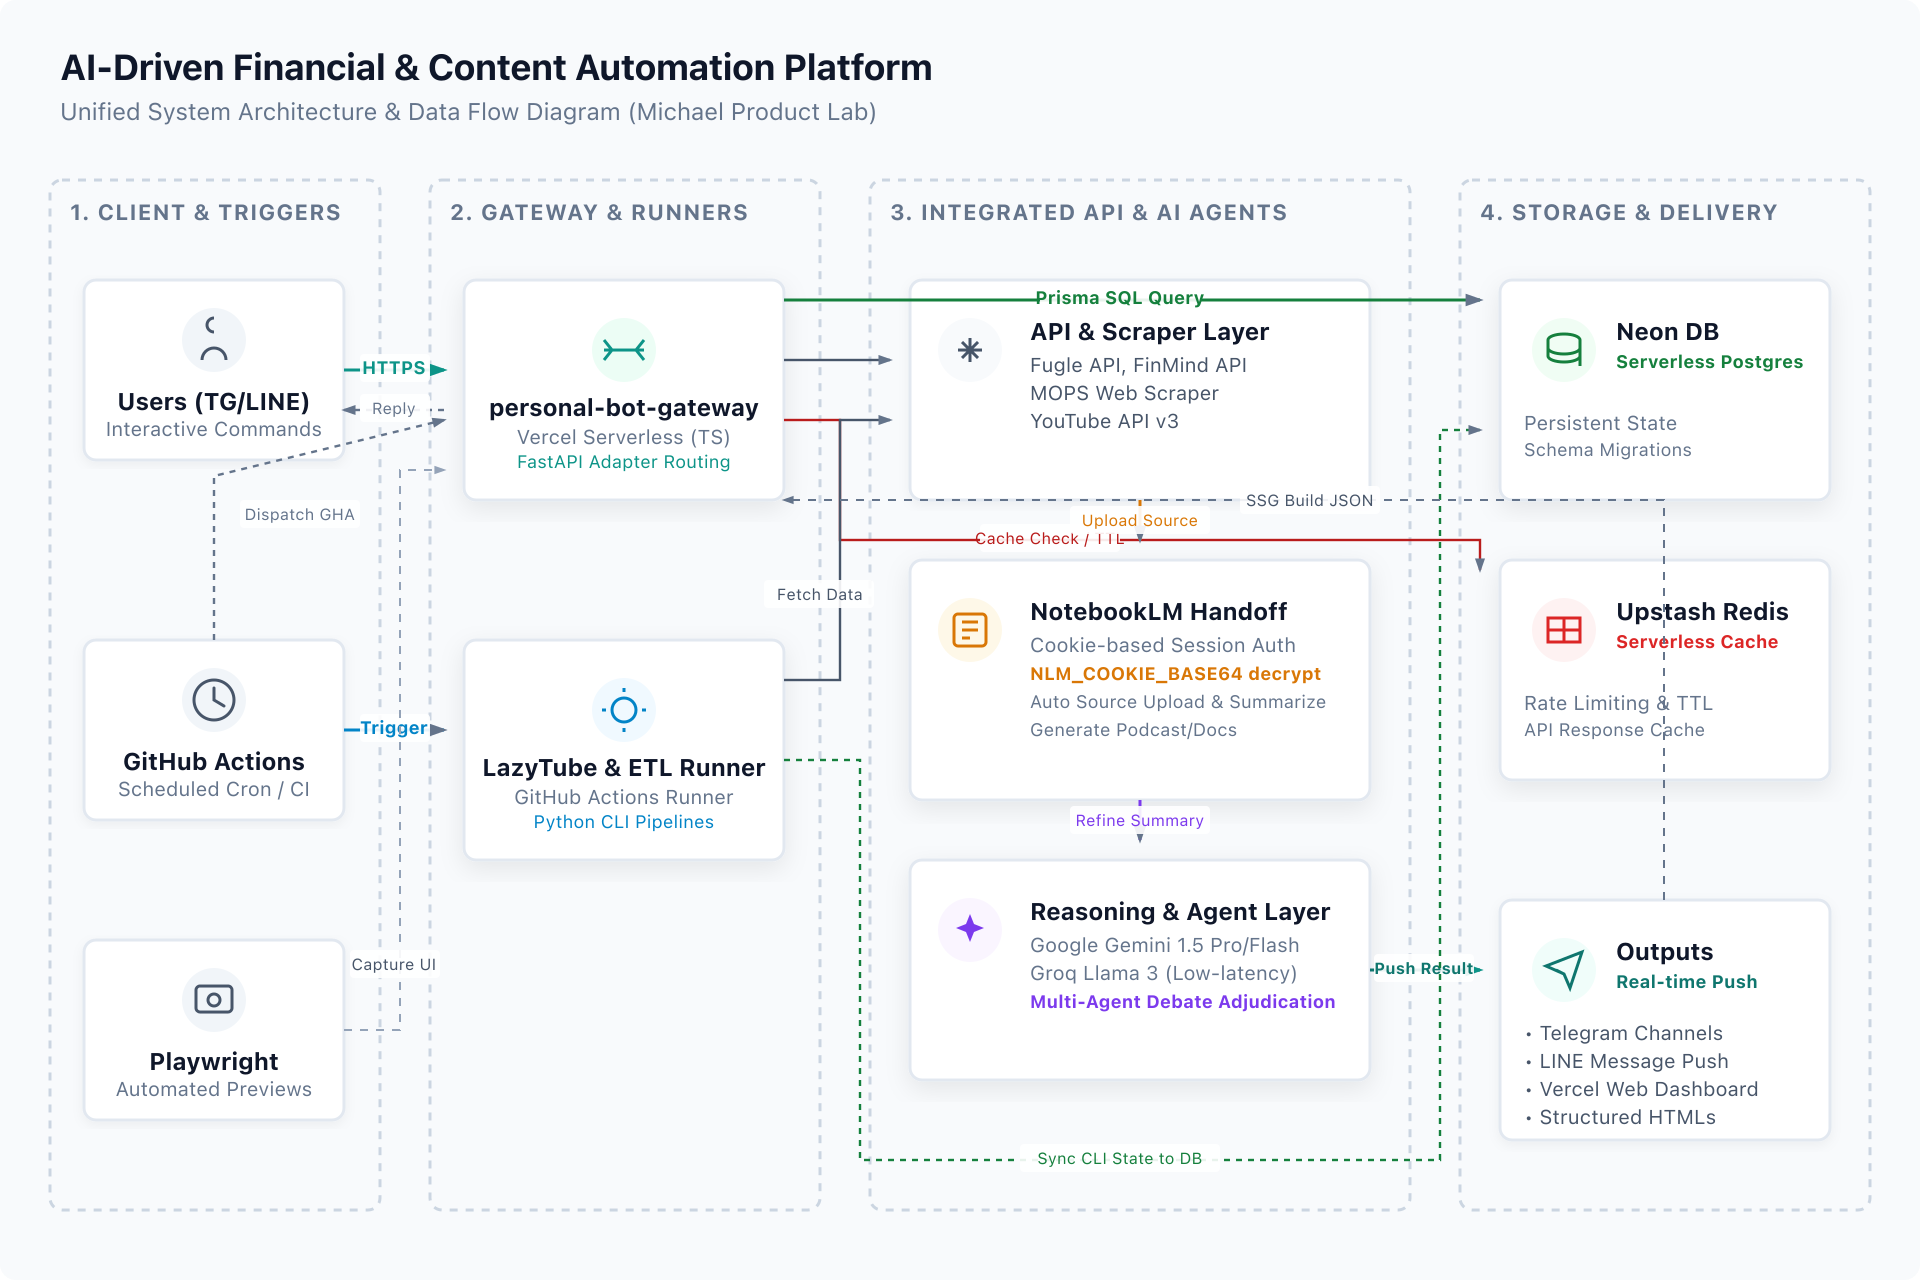
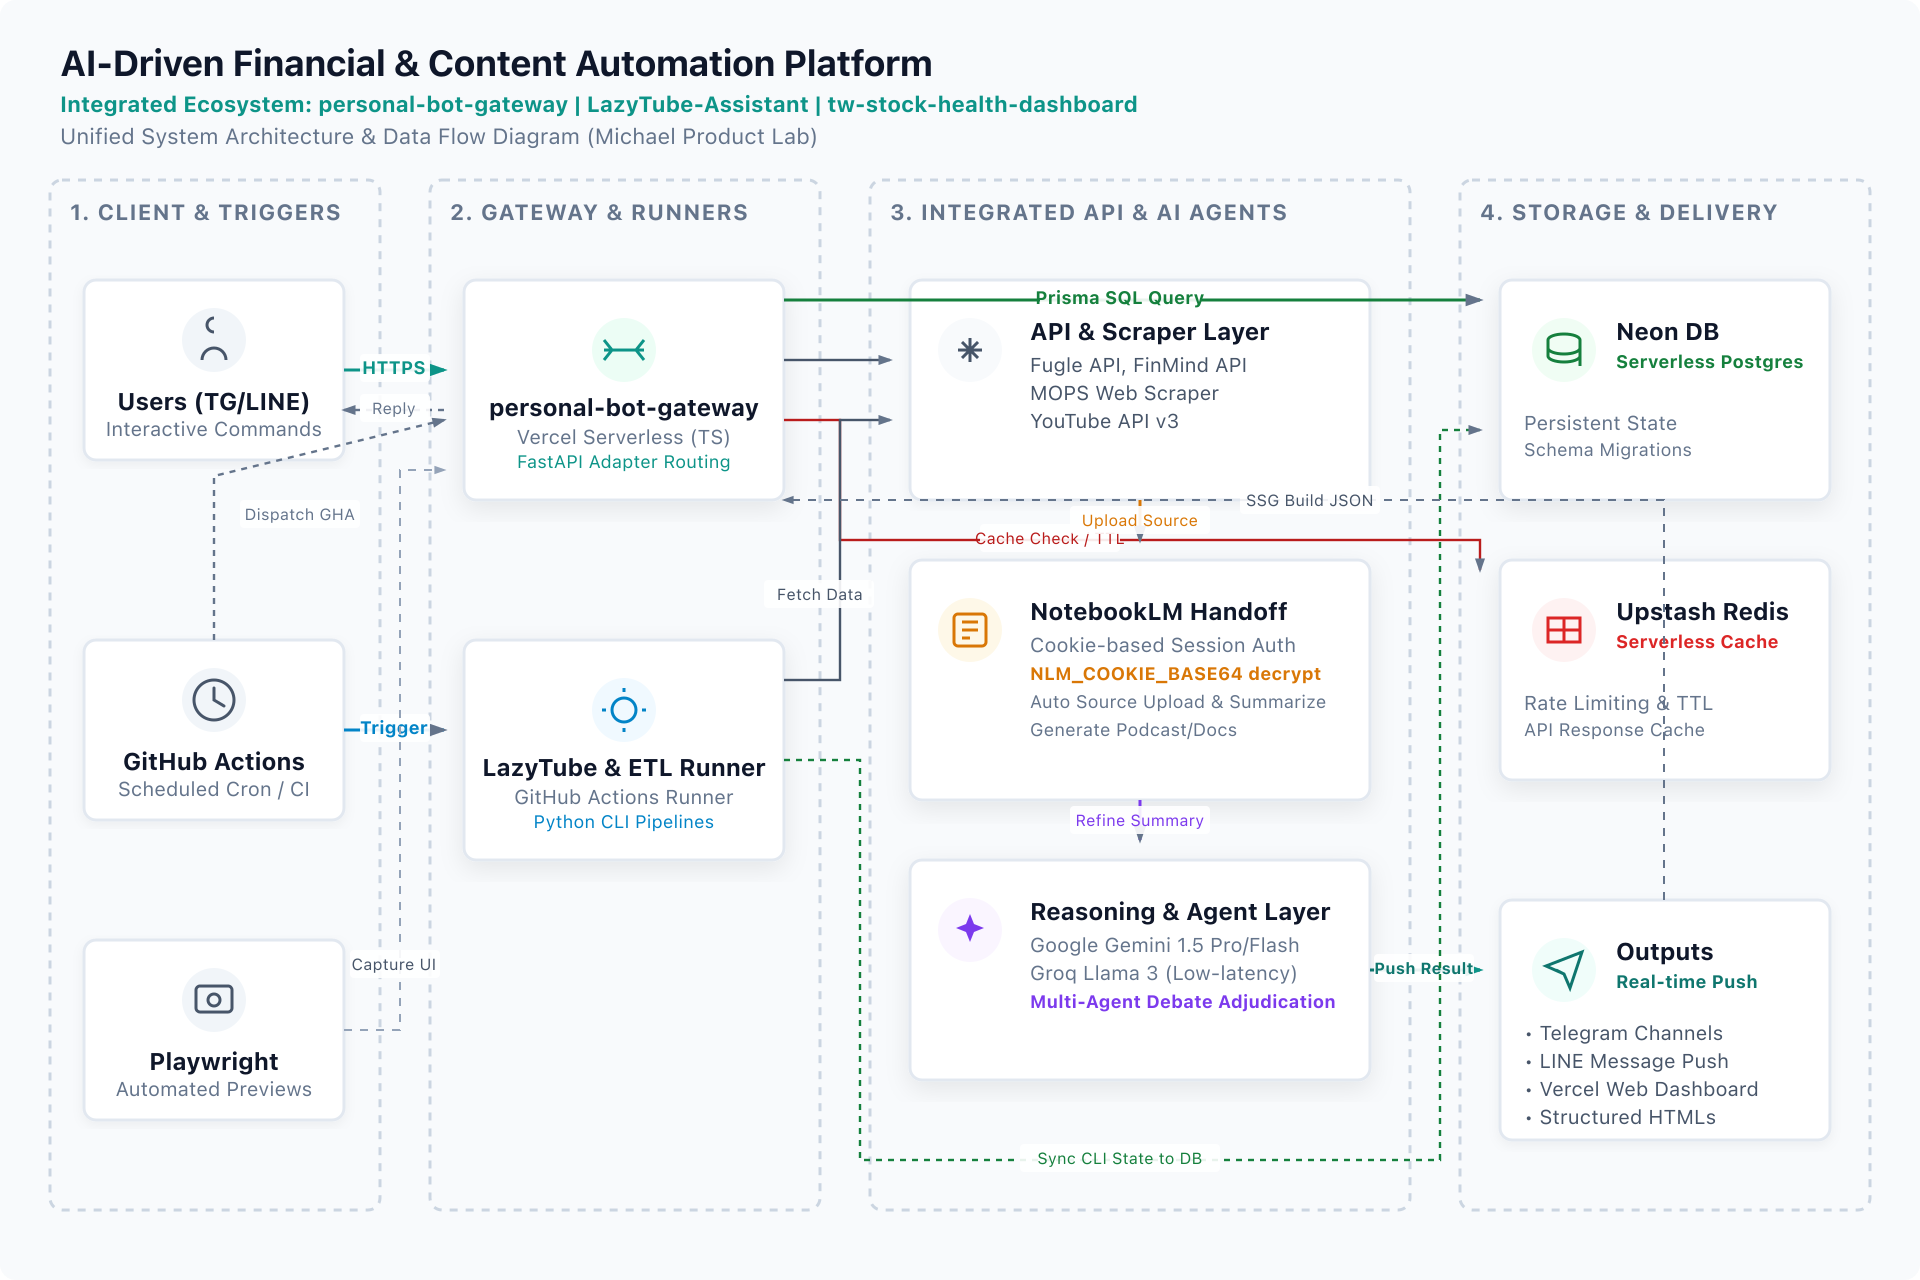
docs: restructure readmes, add tech matrix table, enrich price-atlas details and update architecture diagram text

Changed region(s): [[0.0312, 0.0312, 0.5938, 0.125]]

diff --git a/README.md b/README.md
@@ -16,6 +16,8 @@ The platform integrates a bot gateway, ETL schedulers, caching layers, and datab
 
 ![AI-Driven Financial & Content Automation Platform](./public/architecture.png)
 
+*Note: This architecture diagram illustrates the integrated ecosystem formed by three independent repositories in this portfolio: `personal-bot-gateway`, `LazyTube-Assistant`, and `tw-stock-health-dashboard`.*
+
 ### Core technical implementation:
 - **Asynchronous tasks & scheduling**: **GitHub Actions** runs cron jobs to trigger Python ETL scripts for YouTube and Fugle/FinMind API scraping. The pipeline decrypts `NLM_COOKIE_BASE64` to restore cookie sessions for uploading media to **NotebookLM**.
 - **Caching & rate limits**: **Upstash Redis** buffers webhook spikes and enforces TTL rules and rate limiting to avoid exceeding third-party API quotas.
@@ -24,128 +26,62 @@ The platform integrates a bot gateway, ETL schedulers, caching layers, and datab
 
 ---
 
-## The Problems This Product Lab Solves
+## Featured Product Spotlights
 
-Writing code is more than stacking tech. Without real-world utility, technical choices matter little. Resumes often list languages and frameworks, but lack product context.
+Four core projects selected to showcase key backgrounds and live execution views:
 
-I created this project to address these gaps:
-- **Translates code into business value**: Every listed project starts with the problem it solves, not just a stack of technologies.
-- **Showcases private repositories securely**: For proprietary work, it highlights the UI flow and system architecture without exposing source code.
-- **Guarantees reliable project presentation**: It uses an automated screenshot pipeline. Even if a project is not publicly hosted or a live demo goes down, the portfolio displays generated previews to ensure constant availability.
+### 1. Personal Bot Gateway (personal-bot-gateway) [AI Automation]
+* **Background**: Tracking daily KOLs, podcasts, news, and Threads posts scattered information across multiple applications. This bot aggregates Telegram commands, NotebookLM analysis, report link dispatch, and stock/ETF checks inside a single Telegram window.
+* **Tech Highlights**: Built with Vercel Serverless (TS) API gateway. Integrates Redis cache to cut paid API costs by 75%, and automates NotebookLM cookie session handoff triggered by GitHub Actions.
+* **Live View**:
+  ![Personal Bot Gateway Preview](./public/previews/personal-bot-gateway-features.jpg)
+
+### 2. Price Atlas (price-altas) [Data & Research]
+* **Background**: Purchasing managers and e-commerce traders waste time manually searching items across multiple international sites (US/JP/TW) and calculating exchange rates, missing shipping overheads and dynamic price gaps.
+* **Tech Highlights**: The FastAPI backend dispatches concurrent async scraping pipelines to Amazon US/JP, Yahoo JP, and Kakaku.com. It converts values to TWD via exchange-rate APIs and streams results using SSE (Server-Sent Events) with user-aborted request optimization. It uses `curl_cffi` to mimic Chrome TLS/JA3 fingerprints to bypass Cloudflare protection.
+* **Live View**:
+  *(Refer to the screenshots inside the web portfolio)*
+
+### 3. Taiwan Stock Health Dashboard (tw-stock-health-dashboard) [Financial Intelligence]
+* **Background**: Gathering index, global indices, and capital risk indicators manually is tedious and delays warnings on market liquidity flushes.
+* **Tech Highlights**: Built an asynchronous ETL pipeline using concurrent Promise.all queries with Redis caching, and modeled crash warning flags.
+
+### 4. Fehow Corporate Site (fehow-web) [Business Sites]
+* **Background**: Electronics supply-chain companies need clean, credible websites to win trust from global buyers.
+* **Tech Highlights**: Created an elegant Bento Grid layout that remains fully responsive using Next.js and CSS Grid. Implemented GSAP ScrollTrigger timelines for scroll-bound animations.
+* **Live View**:
+  ![Fehow Corporate Site Preview](./public/previews/fehow-web-hero.png)
 
 ---
 
-## Product Lines and Key Features
+## All Projects &amp; Tech Matrix
 
-Projects are divided into six categories, aligning with the product lines on the frontend:
+To make it easy for interviewers to evaluate all repositories at a glance, here is a consolidated matrix of all 22 projects, their categories, core stack, integrations, and deployment status:
 
-### 1. Financial Intelligence
-Aggregates and filters market data to reduce search costs and flag risks.
-
-- **Taiwan Stock Health Dashboard (tw-stock-health-dashboard)** [Featured]
-  - **Problem**: Investors waste time gathering daily index, global market, and risk data, making it hard to spot early market crash signals.
-  - **Features**: Automatic market summary, global correlation analysis, market crash warning system, real-time Telegram alerts, and **GitHub Actions scheduling**.
-- **Taiwan Warrant Screener (warrant-screener-tw)**
-  - **Problem**: Warrant terms are complex, and default broker interfaces make cross-asset comparison difficult.
-  - **Features**: Multi-criteria filters, side-by-side asset comparison, and a deployed workspace.
-- **Insider Watch Bot (insider-watch-bot)**
-  - **Problem**: Executive and major shareholder stock transfer announcements are scattered across public sites, making it hard to track insider trading flows.
-  - **Features**: Real-time MOPS monitoring, automatic insider sale alerts, trade trend tracking, and **GitHub Actions automated schedules**.
-- **Financial News Analysis (financial-news-analysis)**
-  - **Problem**: Sifting through thousands of market articles is slow, and subjective bias makes sentiment analysis unreliable.
-  - **Features**: Automatic news ingestion, AI-driven sentiment analysis, strategy briefs, and **Render hosting deployment**.
-- **SMC Trinity AI (smc-trinity-ai)**
-  - **Problem**: Smart Money Concept (SMC) trading analysis is highly subjective and prone to individual bias.
-  - **Features**: Automatic SMC chart analysis, multi-agent AI debates, and objective trade adjudication.
-
-### 2. AI Automation
-Connects information streams with AI tools to handle repetitive manual workflows.
-
-- **Personal Bot Gateway (personal-bot-gateway)** [Featured]
-  - **Problem**: Tracking multiple KOLs, podcasts, news, and Threads posts daily scatters information and prevents synthesis.
-  - **Features**: Unified Telegram control hub, daily KOL scans and briefs, automatic NotebookLM report handoffs, instant stock/ETF health checks, **GitHub Actions workflow integration**, and **Neon Serverless DB database integration**.
-- **LazyTube Assistant (LazyTube-Assistant)** [Featured]
-  - **Problem**: High-value YouTube videos are often long, and manually searching for relevant content is time-consuming.
-  - **Features**: Automated search via YouTube API, NotebookLM content briefs, **GitHub Actions scheduling**, Telegram alerts, and **Neon DB persistence**.
-- **PodScribe (PodScribe)** [Featured]
-  - **Problem**: Podcast takeaways are easily forgotten, and users lack structured transcripts or mind maps for knowledge management.
-  - **Features**: Audio transcription, Gemini analysis, structured summaries, and mind maps.
-- **Faceless Hunter (faceless_hunter)**
-  - **Problem**: Creators lack data on which "faceless" video topics have a higher viral potential on YouTube Shorts.
-  - **Features**: YouTube Shorts data scraping, viral ratio calculation, and niche discovery.
-
-### 3. Product Utilities
-Tools built to solve specific workflow inefficiencies and boost day-to-day productivity.
-
-- **Config Diff Viewer (Config-Diff-Viewer)**
-  - **Problem**: Manually comparing configurations across directories is slow and prone to oversight.
-  - **Features**: Two-directory config comparison, visual diff interface, and security reviews.
-- **Socket Swiss Knife (socket-swiss-knife)**
-  - **Problem**: Financial institutions testing MTF protocols lack simple, cross-platform socket utilities.
-  - **Features**: Multi-broker profile management, scheduled load testing, and a cross-platform desktop GUI.
-- **Team Eats (team-eats)**
-  - **Problem**: Group orders, afternoon tea voting, and expense splitting are messy and time-consuming.
-  - **Features**: Meal voting, group order aggregation, and expense splitting logs.
-- **MSG Converter (msg-converter)**
-  - **Problem**: Windows Outlook `.msg` emails cannot be opened directly on macOS, and layouts often break.
-  - **Features**: Offline MSG parsing, macOS-friendly HTML conversion, and automatic attachment extraction.
-- **Taiwan NHI Calculator (taiwan-nhi-calculator)**
-  - **Problem**: Calculating Taiwan's second-generation National Health Insurance premiums is complex, making it hard to compute net pay.
-  - **Features**: Premium calculation, role-based scenarios, and a clean form interface.
-- **Broker Credential Dashboard (broker-credential-dashboard)**
-  - **Problem**: Managing multiple broker API keys and tracking expiration dates across servers is disorganized.
-  - **Features**: Centralized API credential vault, connection status monitoring, and secure administration.
-
-### 4. Business Sites
-Modern web portals that build credibility and showcase value for business partners.
-
-- **Fehow Corporate Site (fehow-web)** [Featured]
-  - **Problem**: Electronics supply-chain companies need clean, credible websites to win trust from global buyers.
-  - **Features**: Corporate branding, Bento Grid layouts, and supply-chain storytelling.
-- **Xiexing PWA (xiexing-pwa)**
-  - **Problem**: Heavy machinery rental and earthwork services lack mobile exposure, missing out on smartphone traffic.
-  - **Features**: Service and machinery catalog, offline-ready PWA, and direct inquiry routing.
-- **Yellowstone Clinic Site (yellowstone-clinic)**
-  - **Problem**: Rehabilitation clinics need clear service directories so patients can find clinic info and hours easily.
-  - **Features**: Therapy and rehab guides, clinic hours, and mobile PWA support.
-
-### 5. Data & Research
-Scrapes and analyzes market data to surface opportunities and risks.
-
-- **Price Atlas (price-altas)** [Featured]
-  - **Problem**: Purchasing managers and buyers manually compare items across sites, missing exchange-rate shifts and real price gaps.
-  - **Features**: Multi-site web scraping, live exchange rate conversions, price gap analysis, and **Render hosting deployment**.
-- **POE Price Tracker (poe-price-tracker)**
-  - **Problem**: Online game markets experience rapid price shifts, making it hard to trade assets efficiently.
-  - **Features**: Live price monitoring, history trend graphs, web dashboard, and **GitHub Actions CI/CD automation**.
-- **Presale Radar (presale-radar)**
-  - **Problem**: Real estate transaction records are disorganized, making it difficult to spot active areas and new project trends.
-  - **Features**: Public registry aggregation, regional volume mapping, real estate market radars, and **GitHub Actions ETL pipeline**.
-- **Neighbor Profiler (neighbor-profiler)**
-  - **Problem**: Valuations on the same street can vary widely, and local environmental risks are often hidden.
-  - **Features**: Local price gap analysis, neighborhood data mapping, and real estate risk alerts.
-- **AIA Training Viewer (AIA-Training-Viewer)**
-  - **Problem**: Complex AI datasets lack visualization tools, making it hard to inspect and verify training data quality.
-  - **Features**: Dataset visualization, training run logs, and a web explorer.
-
-### 6. Experiments
-Rapid prototypes built to evaluate new technologies and validate market potential.
-
-- **Fortune Telling PWA (fortune-telling)**
-  - **Problem**: Traditional BaZi astrology calculations are complex, and results are hard to understand without expert interpretation.
-  - **Features**: Automated BaZi chart plotting, Gemini AI personalized readings, mobile PWA, and **GitHub Actions automated CI/CD**.
-- **North Volley Guide (north-volley-guide)**
-  - **Problem**: Northern Taiwan volleyball court and club listings are scattered, making it hard to find active locations.
-  - **Features**: Curated venue directories, regional searches, and mobile-friendly layouts.
-- **Golf Strategy Prototype (golf-strategy-lk-prototype)**
-  - **Problem**: Golfers face complex shot decisions on the course and lack tools for strategy simulation.
-  - **Features**: Fairway strategy simulation, interactive course plotting, and quick shot validation.
-- **Digit Recognition (digit_recognition)**
-  - **Problem**: Validating low-latency image preprocessing and machine learning predictions directly in-browser.
-  - **Features**: Interactive canvas input, image scaling, real-time MLP classifier predictions, and **Render hosting deployment**.
-- **FastAPI MCP Lab (FastAPI-project)**
-  - **Problem**: Integrating FastAPI with the Model Context Protocol (MCP) to manage streaming AI interactions.
-  - **Features**: FastAPI MCP implementation, PydanticAI exploration, and streaming chat flows.
+| Repository (Repo) | Product Line (Category) | Tech Stack | Integrations | Deployment |
+| :--- | :--- | :--- | :--- | :--- |
+| [personal-bot-gateway](https://github.com/michaelbothsieh-crypto/personal-bot-gateway) | AI Automation | TypeScript, FastAPI | Telegram/LINE Webhook, Neon DB, Upstash Redis, NotebookLM | [Vercel](https://personal-bot-gateway.vercel.app) (Private) |
+| [LazyTube-Assistant](https://github.com/michaelbothsieh-crypto/LazyTube-Assistant) | AI Automation | Python | GitHub Actions, NotebookLM API, Telegram Bot, Neon DB | [Vercel](https://lazy-tube-assistant.vercel.app) |
+| [tw-stock-health-dashboard](https://github.com/michaelbothsieh-crypto/tw-stock-health-dashboard) | Financial Intelligence | TypeScript, Next.js | GitHub Actions, Upstash Redis, Telegram Bot | [Vercel](https://tw-stock-health-dashboard.vercel.app) |
+| [price-altas](https://github.com/michaelbothsieh-crypto/price-altas) | Data & Research | Python, FastAPI | Amazon/Yahoo APIs, Exchange Rate API, Upstash Redis | [Render](https://price-altas-frontend.vercel.app/) (Private) |
+| [fortune-telling](https://github.com/michaelbothsieh-crypto/fortune-telling) | Experiments | TypeScript, React | Google Gemini AI API, PWA | [GitHub Pages](https://fortune-telling-sigma.vercel.app/) |
+| [fehow-web](https://github.com/michaelbothsieh-crypto/fehow-web) | Business Sites | Next.js, Tailwind | GSAP ScrollTrigger, Bento Grid | [Vercel](https://m3-web-mauve.vercel.app) |
+| [xiexing-pwa](https://github.com/michaelbothsieh-crypto/xiexing-pwa) | Business Sites | TypeScript, Next.js | Service Worker, PWA, Next-Gen Image Pipeline | Vercel (Local Preview) |
+| [yellowstone-clinic](https://github.com/michaelbothsieh-crypto/yellowstone-clinic) | Business Sites | TypeScript, Next.js | PWA, WCAG Accessibility Guidelines | Vercel (Local Preview) |
+| [insider-watch-bot](https://github.com/michaelbothsieh-crypto/insider-watch-bot) | Financial Intelligence | TypeScript | GitHub Actions, MOPS Scraper, Telegram Webhook | [GitHub](https://github.com/michaelbothsieh-crypto/insider-watch-bot) |
+| [msg-converter](https://github.com/michaelbothsieh-crypto/msg-converter) | Product Utilities | HTML5, JavaScript | WebCrypto, OLE2 Binary Parser | GitHub Pages |
+| [financial-news-analysis](https://github.com/michaelbothsieh-crypto/financial-news-analysis) | Financial Intelligence | Streamlit, Python | OpenAI GPT API, Streamlit Cloud | [Render](https://github.com/michaelbothsieh-crypto/financial-news-analysis) (Private) |
+| [taiwan-nhi-calculator](https://github.com/michaelbothsieh-crypto/taiwan-nhi-calculator) | Product Utilities | HTML5, JavaScript | Decimals Math Library, Unit Testing | GitHub Pages (Private) |
+| [team-eats](https://github.com/michaelbothsieh-crypto/team-eats) | Product Utilities | TypeScript, React | WebSocket, LocalStorage, PWA | GitHub Pages (Private) |
+| [socket-swiss-knife](https://github.com/michaelbothsieh-crypto/socket-swiss-knife) | Product Utilities | Python | MTF TCP Socket, Tauri/Electron, GUI | Desktop App (Private) |
+| [warrant-screener-tw](https://github.com/michaelbothsieh-crypto/warrant-screener-tw) | Financial Intelligence | JavaScript, Python | Black-Scholes Greeks Engine, requestAnimationFrame | [Vercel](https://warrant-screener-tw.vercel.app) (Private) |
+| [Config-Diff-Viewer](https://github.com/michaelbothsieh-crypto/Config-Diff-Viewer) | Product Utilities | TypeScript, React | Web Worker, Myer's Diff, Virtual Scroll | [Vercel](https://config-diff-viewer.vercel.app) |
+| [PodScribe](https://github.com/michaelbothsieh-crypto/PodScribe) | AI Automation | TypeScript, Next.js | Gemini AI API, Whisper API, Mermaid Mindmap | [Vercel](https://podscribe-six.vercel.app) |
+| [presale-radar](https://github.com/michaelbothsieh-crypto/presale-radar) | Data & Research | Python, Next.js | Leaflet Map, Pandas ETL Pipeline | [Vercel](https://presale-radar.vercel.app) (Private) |
+| [neighbor-profiler](https://github.com/michaelbothsieh-crypto/neighbor-profiler) | Data & Research | TypeScript, React | JCIC Finance Registry, 3D Radar Charts | [Vercel](https://house-dun-one.vercel.app) (Private) |
+| [FastAPI-project](https://github.com/michaelbothsieh-crypto/FastAPI-project) | Experiments | Python, FastAPI | Model Context Protocol (MCP), PydanticAI | Jupyter / Local Run (Private) |
+| [digit_recognition](https://github.com/michaelbothsieh-crypto/digit_recognition) | Experiments | Python, FastAPI | Scikit-learn (MLP), OpenCV, HTML5 Canvas | [Render](https://github.com/michaelbothsieh-crypto/digit_recognition) (Private) |
+| [AIA-Training-Viewer](https://github.com/michaelbothsieh-crypto/AIA-Training-Viewer) | Data & Research | Jupyter, Python | TFEvent Binary Parser, Recharts | [Vercel](https://aia-training-viewer.vercel.app) (Private) |
 
 ---
 

diff --git a/README.zh-TW.md b/README.zh-TW.md
@@ -16,6 +16,8 @@
 
 ![AI-Driven Financial & Content Automation Platform](./public/architecture.png)
 
+*註：此架構圖展示了作品集之中 `personal-bot-gateway`、`LazyTube-Assistant` 與 `tw-stock-health-dashboard` 這三個獨立 Repository 串接而成的整合生態系。*
+
 ### 技術實作與設計重點：
 - **非同步任務與排程執行**：由 **GitHub Actions** 跑排程觸發 Python ETL，抓取 YouTube API 以及 Fugle/FinMind 的台股報價，接著用 `NLM_COOKIE_BASE64` 仿真 cookie session 將影音上傳到 **NotebookLM** 完成語音轉文字與摘要。
 - **快取與 API 配額限制**：為防止 Webhook 流量暴增或重覆爬取導致 API 額度超支，使用 **Upstash Redis** 作為快取層，實作 TTL 緩衝與 Rate Limiting。
@@ -24,128 +26,62 @@
 
 ---
 
-## 為什麼建立這個 Product Lab？
+## 精選產品亮點 (Featured Product Spotlights)
 
-寫程式不只是堆砌技術。如果沒有實際解決問題，技術就很難發揮商用價值。一般的履歷往往只列出開發工具和框架，卻看不到產品本身的脈絡。
+這裡精選了四個核心專案，並附上開發初衷與實際運行畫面：
 
-我做這個專案是為了改善這些問題：
-- **消除技術與商業間的溝通隔閡**：每一個收錄的專案都從「解決了什麼痛點」出發，而非單純堆砌技術名詞。
-- **平衡程式碼隱私與成果呈現**：對於非公開的私有專案，在不洩漏核心原始碼的前提下，依然能呈現功能架構與實際畫面，提供透明的技術實力佐證。
-- **克服部署失效與展示空窗期**：整合自動化截圖管線。即使專案暫時沒有公開部署，或線上版本失效，也能自動產生預覽圖，確保作品集隨時處於可呈現狀態。
+### 1. Personal Bot Gateway (personal-bot-gateway) [AI 自動化]
+* **設計初衷**：每天追蹤 KOL、Podcast、個股、ETF 等資訊入口太分散，資訊難以系統化整理。這款 Bot 將 TG 指令輸入、NotebookLM 分析、報告連結與市場行情回覆集中在同一個 Telegram 對話框中。
+* **技術亮點**：使用 Vercel Serverless (TS) 實作 API 網關，並利用 Redis 快取降低 75% API 成本，整合 GitHub Actions 觸發與 NotebookLM 仿真 Session 登入。
+* **實際畫面**：
+  ![Personal Bot Gateway Preview](./public/previews/personal-bot-gateway-features.jpg)
+
+### 2. Price Atlas (price-altas) [資料研究]
+* **設計初衷**：採購與跨境商家在比對各國商品價格時，必須開啟多個分頁查詢並手動換算匯率。此工具一鍵併發向台、美、日主流平台查價並自動折算即時匯率。
+* **技術亮點**：後端採用 FastAPI 協同 Python 異步爬蟲，以 SSE (Server-Sent Events) 串流技術即時回傳比價結果。使用 `curl_cffi` 偽裝 Chrome TLS/JA3 指紋以繞過 WAF 防爬限制。
+* **實際畫面**：
+  *(詳見網頁作品集內實物畫面)*
+
+### 3. 台股健康儀表板 (tw-stock-health-dashboard) [金融決策]
+* **設計初衷**：投資人每日需手動收集台股大盤、融資券與海外風險指標，流程繁瑣且不易早期察覺市場籌碼崩盤訊號。
+* **技術亮點**：設計非同步 ETL Pipeline，利用 Promise.all 併發抓取並在 Redis 中進行快取，並透過簡單神經網絡進行崩盤預警因子的加權估算。
+
+### 4. 飛皓科技形象網站 (fehow-web) [企業網站]
+* **設計初衷**：電子供應鏈企業需要具備國際公信力的官方網站，以向海外客戶呈現技術與供應實力。
+* **技術亮點**：採用 Next.js + CSS Grid 打造 Bento Grid 響應式佈局，並優化 GSAP 滾動動畫在行動端的流暢度。
+* **實際畫面**：
+  ![Fehow Corporate Site Preview](./public/previews/fehow-web-hero.png)
 
 ---
 
-## 六大產品線與核心功能
+## 全部專案與技術矩陣 (All Projects &amp; Tech Matrix)
 
-這裡的專案分為六大類，分類與前端畫面的產品線一致：
+為了方便面試官一目瞭然地檢視所有 Repo，以下整理出全部 22 個專案的分類、核心技術、外部服務整合以及部署狀態：
 
-### 1. 金融決策 (Financial Intelligence)
-針對金融市場的繁雜數據，提供即時、自動化的整理與預警，降低資訊收集成本。
-
-- **台股健康儀表板 (tw-stock-health-dashboard)** [精選]
-  - **解決痛點**：投資人每日需手動收集台股大盤、海外指數與各種風險指標，流程繁瑣且不易早期察覺市場崩盤訊號。
-  - **核心功能**：大盤盤後數據自動整理、海外市場連動分析、市場崩盤風險預警、Telegram 警報即時推送、**GitHub Actions 排程自動化**。
-- **台股權證篩選器 (warrant-screener-tw)**
-  - **解決痛點**：權證條款多且繁瑣，一般下單軟體介面不夠直覺，難以快速進行跨標的比較。
-  - **核心功能**：多維度權證數據篩選、跨標的橫向對比、即時部署的篩選工作台。
-- **內部人持股轉讓警報 (insider-watch-bot)**
-  - **解決痛點**：董監事與大股東的股權轉讓申報公告分散在公開資訊觀測站，投資人難以第一時間追蹤籌碼流向。
-  - **核心功能**：公開資訊觀測站 (MOPS) 即時監控、大股東轉讓自動警示、籌碼異動趨勢追蹤、**GitHub Actions 自動化排程**。
-- **財經新聞分析 (financial-news-analysis)**
-  - **解決痛點**：每日財經新聞數量龐大，人工閱讀容易受到情緒主觀干擾，難以快速取得客觀情緒指標。
-  - **核心功能**：多管道新聞自動擷取、AI 情緒指標評估、量化投資策略摘要、**Render 雲端部署**。
-- **SMC Trinity AI (smc-trinity-ai)**
-  - **解決痛點**：金融交易中的「聰明錢概念 (Smart Money Concept)」分析容易受到交易員主觀偏見影響。
-  - **核心功能**：SMC 技術圖表自動分析、多 AI 代理人模擬辯論、交易決策客觀判定。
-
-### 2. AI 自動化 (AI Automation)
-將繁雜的日常資訊流與 AI 工具對接，自動化處理繁瑣的工作流程。
-
-- **Personal Bot Gateway (personal-bot-gateway)** [精選]
-  - **解決痛點**：每天要追蹤多個意見領袖 (KOL)、播客、新聞與 Threads 資訊，資訊入口零散，難以進行系統化整理。
-  - **核心功能**：Telegram 統一控制中樞、KOL 每日內容掃描與摘要、NotebookLM 深度報告自動對接、個股與 ETF 行情及健檢即時查詢、**GitHub Actions 整合**、**Neon Serverless DB 串接**。
-- **LazyTube Assistant (LazyTube-Assistant)** [精選]
-  - **解決痛點**：YouTube 上的高價值影片往往很長，手動觀看與篩選耗費大量時間。
-  - **核心功能**：YouTube API 自動依條件篩選新影片、NotebookLM 自動化內容精華摘要、**GitHub Actions 排程自動運行**、Telegram 自動推送、**Neon 數據庫持久化**。
-- **PodScribe (PodScribe)** [精選]
-  - **解決痛點**：收聽 Podcast 後缺乏文字記錄或結構化筆記，難以回顧與儲存為個人知識庫。
-  - **核心功能**：Podcast 語音檔案自動轉錄、Gemini 智慧內容分析、自動生成結構化摘要與心智圖。
-- **Faceless Hunter (faceless_hunter)**
-  - **解決痛點**：短影音創作者難以快速找出哪些「不露臉」的題材在 YouTube Shorts 上有更高的爆紅機率。
-  - **核心功能**：YouTube Shorts 數據自動抓取、爆紅比例演算法分析、潛力不露臉題材挖掘。
-
-### 3. 工具產品 (Product Utilities)
-解決日常工作與生活中的特定問題，提升效率的實用工具。
-
-- **設定檔差異檢視器 (Config-Diff-Viewer)**
-  - **解決痛點**：在開發與運維過程中，手動比對多個目錄的設定檔費時，且極易漏掉重要差異。
-  - **核心功能**：雙目錄設定檔比對、差異視覺化介面、設定安全性審查。
-- **Socket Swiss Knife (socket-swiss-knife)**
-  - **解決痛點**：金融機構進行 MTF 協議測試時，缺乏簡單易用、跨平台的 Socket 測試工具。
-  - **核心功能**：多交易商配置管理、定時壓力與連線測試、跨平台桌面圖形介面 (GUI)。
-- **Team Eats (team-eats)**
-  - **解決痛點**：團隊聚餐或團購下午茶時，投票、統計與分帳流程混亂，人工計算繁瑣。
-  - **核心功能**：餐點投票與揪團、消費金額自動統計、費用與付款狀態紀錄。
-- **MSG 轉換器 (msg-converter)**
-  - **解決痛點**：Windows Outlook 的 `.msg` 格式信件在 Mac 系統上無法直接開啟，且排版容易錯亂。
-  - **核心功能**：本機 MSG 檔案快速解析、轉換為 Mac 友善的 HTML 格式、自動提取並保存郵件附件。
-- **二代健保試算工具 (taiwan-nhi-calculator)**
-  - **解決痛點**：台灣二代健保補充保費與眷屬保費計算公式複雜，企業或個人難以快速試算實發薪水。
-  - **核心功能**：補充保費與保費級距自動計算、多元身份與情境模擬、簡潔的表單操作介面。
-- **券商憑證儀表板 (broker-credential-dashboard)**
-  - **解決痛點**：多張券商 API 憑證與連線狀態分散，難以統一管理與監控到期時間。
-  - **核心功能**：API 憑證集中管理、到期日與連線狀態監控、安全內部管理介面。
-
-### 4. 企業網站 (Business Sites)
-為合作企業建立的現代化入口網站，展示品牌實力與業務價值。
-
-- **飛皓科技形象網站 (fehow-web)** [精選]
-  - **解決痛點**：電子供應鏈企業需要具備國際公信力的官方網站，以向海外客戶呈現技術與供應實力。
-  - **核心功能**：現代化企業形象設計、Bento Grid 資訊佈局、供應鏈實力圖文敘事。
-- **協興實業 PWA (xiexing-pwa)**
-  - **解決痛點**：傳統重機械租賃與工程服務缺乏線上曝光管道，難以吸引行動裝置用戶。
-  - **核心功能**：工程服務與重機械線上呈現、離線可讀的 PWA 體驗、商務諮詢導流。
-- **黃石健康診所網站 (yellowstone-clinic)**
-  - **解決痛點**：復健與物理治療診所需要清晰的服務介紹，方便病患查詢診所資訊與門診時間。
-  - **核心功能**：物理治療與復健服務介紹、診所交通與營業資訊整理、PWA 行動端支援。
-
-### 5. 資料研究 (Data & Research)
-透過數據爬取與分析，發掘市場機會與潛在風險。
-
-- **Price Atlas (price-altas)** [精選]
-  - **解決痛點**：採購人員或個人買家進行跨平台比價時，需要手動查詢不同網站，且容易忽略匯率變動與實質價差。
-  - **核心功能**：跨平台商品價格自動抓取、即時匯率換算、商品價差分析、**Render 雲端部署**。
-- **POE 價格追蹤器 (poe-price-tracker)**
-  - **解決痛點**：線上遊戲市場交易價格波動劇烈，玩家難以掌握即時物價趨勢以做出最佳交易。
-  - **核心功能**：遊戲物品價格即時監控、歷史價格趨勢統計、網頁版儀表板呈現、**GitHub Actions 自動化建置**。
-- **預售屋雷達 (presale-radar)**
-  - **解決痛點**：預售屋市場實價登錄資訊零散，難以快速掌握目前房市的熱門區域與推案動向。
-  - **核心功能**：實價登錄與推案資料整理、區域市場熱度觀察、房市交易雷達圖、**GitHub Actions ETL 資料管線**。
-- **房地產鄰里分析器 (neighbor-profiler)**
-  - **解決痛點**：房屋買賣時，同路段的估值落差可能極大，且隱蔽的周邊嫌惡設施或環境風險不易被發現。
-  - **核心功能**：路段估值落差揭露、鄰里環境數據分析、房地產潛在風險提示。
-- **AIA Training Viewer (AIA-Training-Viewer)**
-  - **解決痛點**：AI 訓練資料集結構與維度繁多，缺乏好用的可視化工具，難以快速檢視與評估訓練成效。
-  - **核心功能**：模型訓練資料集可視化、訓練過程與成效檢視、友善的網頁瀏覽工具。
-
-### 6. 實驗原型 (Experiments)
-前沿技術的快速實驗與概念驗證，探討商用可行性。
-
-- **天機算命 (fortune-telling)**
-  - **解決痛點**：傳統八字命理排盤複雜，一般人難以理解術語，且缺乏個人化的現代解讀。
-  - **核心功能**：八字命盤自動排盤、Gemini AI 個人化運勢解讀、PWA 行動裝置體驗、**GitHub Actions 自動化 CI/CD**。
-- **北部排球指南 (north-volley-guide)**
-  - **解決痛點**：北部排球場地與球隊資訊零散，球友難以快速找到合適的打球地點。
-  - **核心功能**：北部排球場地詳細整理、依地區與類型快速查找、行動版網頁瀏覽。
-- **Golf Strategy Prototype (golf-strategy-lk-prototype)**
-  - **解決痛點**：高爾夫球手擊球時需要考量多項變因，缺乏能提供擊球策略與球道規劃的輔助工具。
-  - **核心功能**：球道策略模擬原型、互動式球道規劃介面、快速擊球方案驗證。
-- **手寫數字辨識 (digit_recognition)**
-  - **解決痛點**：驗證機器學習模型在網頁端進行即時影像前處理與預測的流暢度。
-  - **核心功能**：網頁畫布即時繪圖輸入、影像灰階化與尺寸調整前處理、MLP 卷積模型即時辨識、**Render 雲端部署**。
-- **FastAPI MCP 學習專案 (FastAPI-project)**
-  - **解決痛點**：如何將 FastAPI 與新一代 AI 代理通訊協定 (Model Context Protocol) 進行串接以實現串流對話。
-  - **核心功能**：FastAPI 與 MCP 協定實作、PydanticAI 框架探索、流暢的 AI 串流對話流程。
+| 專案名稱 (Repo) | 產品線 (Category) | 核心技術 (Tech Stack) | 對外整合服務 (Integrations) | 部署與展示 (Deployment) |
+| :--- | :--- | :--- | :--- | :--- |
+| [personal-bot-gateway](https://github.com/michaelbothsieh-crypto/personal-bot-gateway) | AI 自動化 | TypeScript, FastAPI | Telegram/LINE Webhook, Neon DB, Upstash Redis, NotebookLM | [Vercel](https://personal-bot-gateway.vercel.app) (Private) |
+| [LazyTube-Assistant](https://github.com/michaelbothsieh-crypto/LazyTube-Assistant) | AI 自動化 | Python | GitHub Actions, NotebookLM API, Telegram Bot, Neon DB | [Vercel](https://lazy-tube-assistant.vercel.app) |
+| [tw-stock-health-dashboard](https://github.com/michaelbothsieh-crypto/tw-stock-health-dashboard) | 金融決策 | TypeScript, Next.js | GitHub Actions, Upstash Redis, Telegram Bot | [Vercel](https://tw-stock-health-dashboard.vercel.app) |
+| [price-altas](https://github.com/michaelbothsieh-crypto/price-altas) | 資料研究 | Python, FastAPI | Amazon/Yahoo APIs, Exchange Rate API, Upstash Redis | [Render](https://price-altas-frontend.vercel.app/) (Private) |
+| [fortune-telling](https://github.com/michaelbothsieh-crypto/fortune-telling) | 實驗原型 | TypeScript, React | Google Gemini AI API, PWA | [GitHub Pages](https://fortune-telling-sigma.vercel.app/) |
+| [fehow-web](https://github.com/michaelbothsieh-crypto/fehow-web) | 企業形象 | Next.js, Tailwind | GSAP ScrollTrigger, Bento Grid | [Vercel](https://m3-web-mauve.vercel.app) |
+| [xiexing-pwa](https://github.com/michaelbothsieh-crypto/xiexing-pwa) | 企業形象 | TypeScript, Next.js | Service Worker, PWA, Next-Gen Image Pipeline | Vercel (Local Preview) |
+| [yellowstone-clinic](https://github.com/michaelbothsieh-crypto/yellowstone-clinic) | 企業形象 | TypeScript, Next.js | PWA, WCAG Accessibility Guidelines | Vercel (Local Preview) |
+| [insider-watch-bot](https://github.com/michaelbothsieh-crypto/insider-watch-bot) | 金融決策 | TypeScript | GitHub Actions, MOPS Scraper, Telegram Webhook | [GitHub](https://github.com/michaelbothsieh-crypto/insider-watch-bot) |
+| [msg-converter](https://github.com/michaelbothsieh-crypto/msg-converter) | 工具產品 | HTML5, JavaScript | WebCrypto, OLE2 Binary Parser | GitHub Pages |
+| [financial-news-analysis](https://github.com/michaelbothsieh-crypto/financial-news-analysis) | 金融決策 | Streamlit, Python | OpenAI GPT API, Streamlit Cloud | [Render](https://github.com/michaelbothsieh-crypto/financial-news-analysis) (Private) |
+| [taiwan-nhi-calculator](https://github.com/michaelbothsieh-crypto/taiwan-nhi-calculator) | 工具產品 | HTML5, JavaScript | Decimals Math Library, Unit Testing | GitHub Pages (Private) |
+| [team-eats](https://github.com/michaelbothsieh-crypto/team-eats) | 工具產品 | TypeScript, React | WebSocket, LocalStorage, PWA | GitHub Pages (Private) |
+| [socket-swiss-knife](https://github.com/michaelbothsieh-crypto/socket-swiss-knife) | 工具產品 | Python | MTF TCP Socket, Tauri/Electron, GUI | Desktop App (Private) |
+| [warrant-screener-tw](https://github.com/michaelbothsieh-crypto/warrant-screener-tw) | 金融決策 | JavaScript, Python | Black-Scholes Greeks Engine, requestAnimationFrame | [Vercel](https://warrant-screener-tw.vercel.app) (Private) |
+| [Config-Diff-Viewer](https://github.com/michaelbothsieh-crypto/Config-Diff-Viewer) | 工具產品 | TypeScript, React | Web Worker, Myer's Diff, Virtual Scroll | [Vercel](https://config-diff-viewer.vercel.app) |
+| [PodScribe](https://github.com/michaelbothsieh-crypto/PodScribe) | AI 自動化 | TypeScript, Next.js | Gemini AI API, Whisper API, Mermaid Mindmap | [Vercel](https://podscribe-six.vercel.app) |
+| [presale-radar](https://github.com/michaelbothsieh-crypto/presale-radar) | 資料研究 | Python, Next.js | Leaflet Map, Pandas ETL Pipeline | [Vercel](https://presale-radar.vercel.app) (Private) |
+| [neighbor-profiler](https://github.com/michaelbothsieh-crypto/neighbor-profiler) | 資料研究 | TypeScript, React | JCIC Finance Registry, 3D Radar Charts | [Vercel](https://house-dun-one.vercel.app) (Private) |
+| [FastAPI-project](https://github.com/michaelbothsieh-crypto/FastAPI-project) | 實驗原型 | Python, FastAPI | Model Context Protocol (MCP), PydanticAI | Jupyter / Local Run (Private) |
+| [digit_recognition](https://github.com/michaelbothsieh-crypto/digit_recognition) | 實驗原型 | Python, FastAPI | Scikit-learn (MLP), OpenCV, HTML5 Canvas | [Render](https://github.com/michaelbothsieh-crypto/digit_recognition) (Private) |
+| [AIA-Training-Viewer](https://github.com/michaelbothsieh-crypto/AIA-Training-Viewer) | 資料研究 | Jupyter, Python | TFEvent Binary Parser, Recharts | [Vercel](https://aia-training-viewer.vercel.app) (Private) |
 
 ---
 